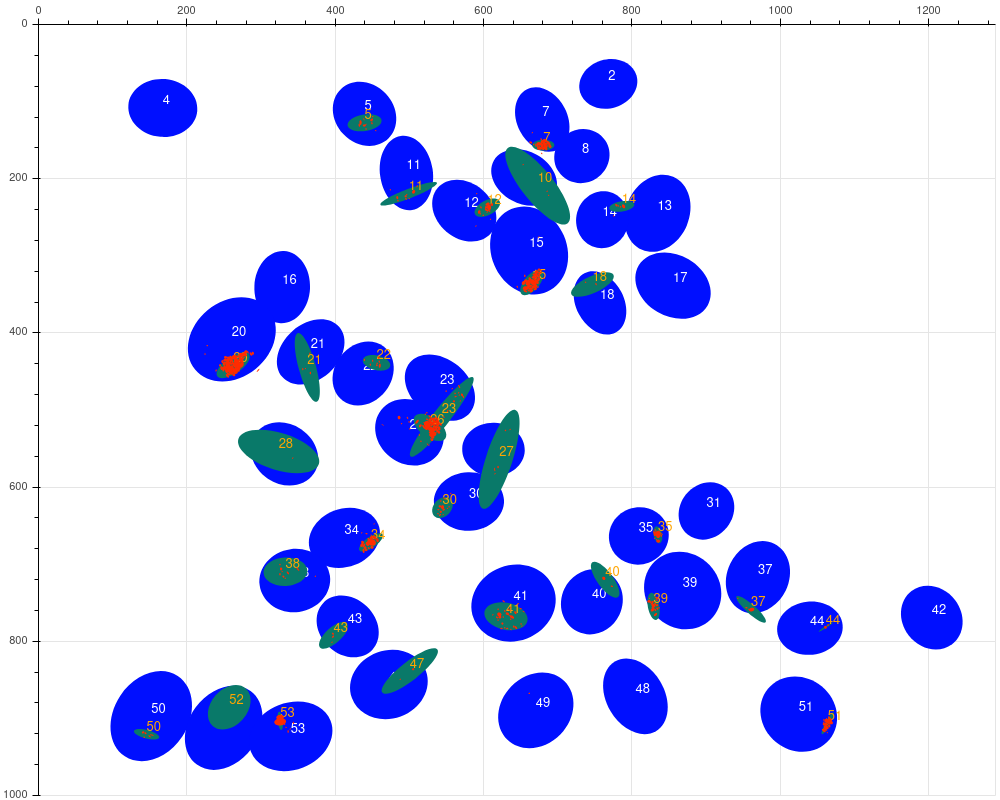
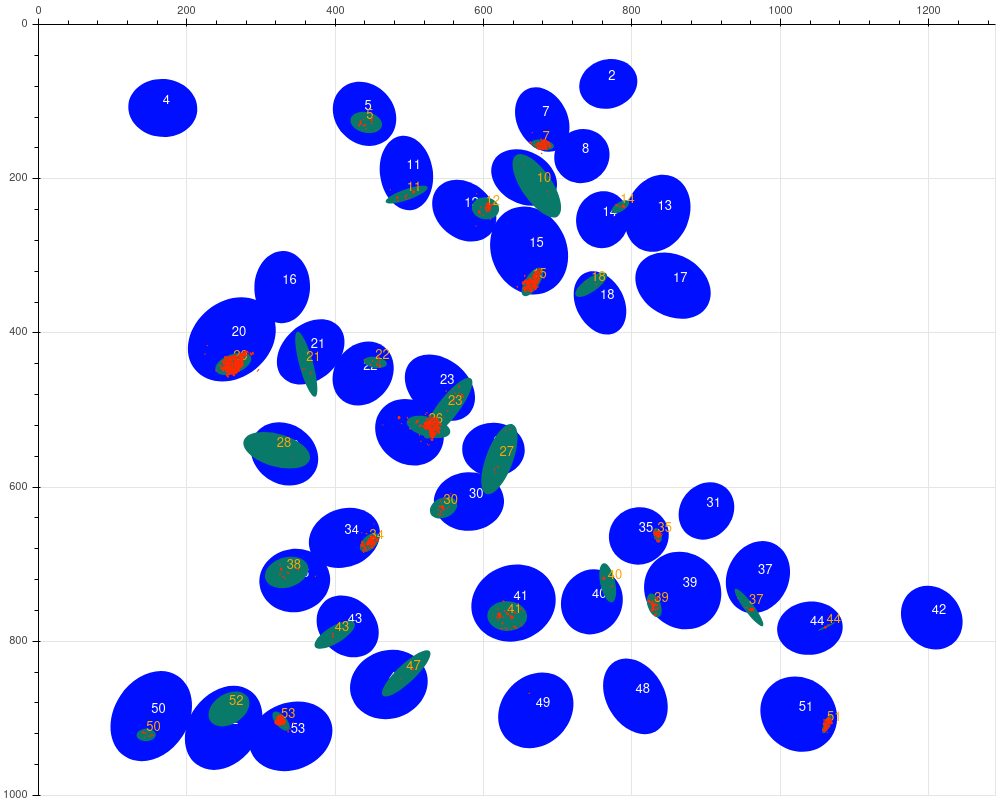
change aweights from integrated_intensity*area to simple integrated_intensity and lower n_std from 2.5 to 2

diff --git a/puncta_counter/src/summarize.py b/puncta_counter/src/summarize.py
@@ -9,10 +9,64 @@ from puncta_counter.utils.plotting import (plot_circle_using_bokeh,
 
 
 # Functions
-# # generate_circle
 # # generate_ellipse
-# # plot_nuclei_circles_puncta
+# # generate_circle
 # # plot_nuclei_ellipses_puncta
+# # plot_nuclei_circles_puncta
+
+
+def generate_ellipse(
+        puncta,
+        algo='confidence_ellipse',
+        n_std=2,  # algo='confidence_ellipse'
+        tolerance=0.05  # algo='min_vol_ellipse'
+    ):
+    """Generates an ellipse, which comes with the following dimensions:
+
+    ["center_x",
+     "center_y",
+     "minor_axis_length",
+     "major_axis_length",
+     "orientation"]
+
+    """
+
+    puncta['center'] = puncta[['center_x', 'center_y']].apply(list, axis=1)
+
+    puncta_summary = (
+        puncta
+        .groupby(['image_number', 'object_number'])[['center', "integrated_intensity"]]
+        .agg(list)
+        .reset_index()
+    ).copy()
+
+
+    if algo == 'confidence_ellipse':
+        puncta_summary[
+            ["center_x", "center_y", "major_axis_length", "minor_axis_length", "orientation"]
+        ] = pd.DataFrame(
+            puncta_summary[["center", 'integrated_intensity']]
+            .apply(lambda x: confidence_ellipse(
+                np.transpose(np.array(x['center'])),
+                aweights=x["integrated_intensity"], n_std=n_std,
+            ), axis=1)
+            .to_list()
+        )
+
+    elif algo == 'min_vol_ellipse':
+        puncta_summary[
+            ["center_x", "center_y", "major_axis_length", "minor_axis_length", "orientation"]
+        ] = pd.DataFrame(
+            puncta_summary["center"]
+            .apply(lambda x: np.transpose(np.array(x)))
+            .apply(lambda x: min_vol_ellipse(x, tolerance=tolerance))
+            .to_list()
+        )
+
+    else:
+        raise ValueError("Choose one: ['min_vol_ellipse', 'confidence_ellipse']")
+    
+    return puncta_summary
 
 
 def generate_circle(puncta):
@@ -48,107 +102,6 @@ def generate_circle(puncta):
     return puncta_summary
 
 
-def generate_ellipse(puncta, algo='confidence_ellipse'):
-    """Generates an ellipse, which comes with the following dimensions:
-    ["center_x",
-     "center_y",
-     "minor_axis_length",
-     "major_axis_length",
-     "orientation"]
-    In the future, I may change this to matplotlib instead of Bokeh, as Bokeh is very resource heavy
-    """
-
-    puncta['center'] = puncta[['center_x', 'center_y']].apply(list, axis=1)
-    puncta['total_intensity'] = puncta["integrated_intensity"] * puncta["area"]
-
-    puncta_summary = (
-        puncta
-        .groupby(['image_number', 'object_number'])[['center', "total_intensity"]]
-        .agg(list)
-        .reset_index()
-    ).copy()
-
-
-    if algo == 'confidence_ellipse':
-        puncta_summary[
-            ["center_x", "center_y", "major_axis_length", "minor_axis_length", "orientation"]
-        ] = pd.DataFrame(
-            puncta_summary[["center", 'total_intensity']]
-            .apply(lambda x: confidence_ellipse(
-                np.transpose(np.array(x['center'])),
-                aweights=x['total_intensity'], n_std=2.5,  # algo='confidence_ellipse'
-                tolerance=0.05,  # algo='min_vol_ellipse'
-            ), axis=1)
-            .to_list()
-        )
-
-    elif algo == 'min_vol_ellipse':
-        puncta_summary[
-            ["center_x", "center_y", "major_axis_length", "minor_axis_length", "orientation"]
-        ] = pd.DataFrame(
-            puncta_summary["center"]
-            .apply(lambda x: np.transpose(np.array(x)))
-            .apply(lambda x: min_vol_ellipse(x, tolerance=0.05))
-            .to_list()
-        )
-
-    else:
-        raise ValueError("Choose one: ['min_vol_ellipse', 'confidence_ellipse']")
-    
-    return puncta_summary
-
-
-def plot_nuclei_circles_puncta(nuclei, circles, puncta, title=None):
-    """Build plot
-    """
-
-    # nuclei
-    nuclei_data = nuclei[["object_number", "center_x", "center_y", "major_axis_length", "minor_axis_length", "angle"]]
-    plot = plot_ellipse_using_bokeh(
-        nuclei_data,
-        nuclei_data,
-        x='center_x',
-        y='center_y',
-        height="major_axis_length",
-        width="minor_axis_length",
-        angle='angle',
-        text="object_number",
-        title=title,
-        fill_color='#000fff',  # blue
-    )
-
-    # circle
-    circles_data = circles[["nuclei_object_number", "center_x_mean", "center_y_mean", "effective_radius_puncta"]]
-    plot = plot_circle_using_bokeh(
-        circles_data,
-        circles_data,
-        x='center_x_mean',
-        y='center_y_mean',
-        size="effective_radius_puncta",
-        text="nuclei_object_number",
-        text_color='orange',
-        fill_color='#097969',  # green
-        line_alpha=0,
-        plot=plot
-    )
-
-    # puncta
-    puncta_data = puncta[["object_number", "center_x", "center_y", "major_axis_length", "minor_axis_length", "angle"]]
-    plot = plot_ellipse_using_bokeh(
-        puncta_data,
-        x='center_x',
-        y='center_y',
-        height="major_axis_length",
-        width="minor_axis_length",
-        angle='angle',
-        fill_color='#ff2b00',  # red
-        line_alpha=0,
-        plot=plot
-    )
-
-    return plot
-
-
 def plot_nuclei_ellipses_puncta(nuclei, ellipses, puncta, title=None):
     """Build plot
     """
@@ -179,6 +132,57 @@ def plot_nuclei_ellipses_puncta(nuclei, ellipses, puncta, title=None):
         width="minor_axis_length",
         angle='angle',
         text="object_number",
+        text_color='orange',
+        fill_color='#097969',  # green
+        line_alpha=0,
+        plot=plot
+    )
+
+    # puncta
+    puncta_data = puncta[["object_number", "center_x", "center_y", "major_axis_length", "minor_axis_length", "angle"]]
+    plot = plot_ellipse_using_bokeh(
+        puncta_data,
+        x='center_x',
+        y='center_y',
+        height="major_axis_length",
+        width="minor_axis_length",
+        angle='angle',
+        fill_color='#ff2b00',  # red
+        line_alpha=0,
+        plot=plot
+    )
+
+    return plot
+
+
+def plot_nuclei_circles_puncta(nuclei, circles, puncta, title=None):
+    """Build plot
+    """
+
+    # nuclei
+    nuclei_data = nuclei[["object_number", "center_x", "center_y", "major_axis_length", "minor_axis_length", "angle"]]
+    plot = plot_ellipse_using_bokeh(
+        nuclei_data,
+        nuclei_data,
+        x='center_x',
+        y='center_y',
+        height="major_axis_length",
+        width="minor_axis_length",
+        angle='angle',
+        text="object_number",
+        title=title,
+        fill_color='#000fff',  # blue
+    )
+
+    # circle
+    circles_data = circles[["nuclei_object_number", "center_x_mean", "center_y_mean", "effective_radius_puncta"]]
+    plot = plot_circle_using_bokeh(
+        circles_data,
+        circles_data,
+        x='center_x_mean',
+        y='center_y_mean',
+        size="effective_radius_puncta",
+        text="nuclei_object_number",
         text_color='orange',
         fill_color='#097969',  # green
         line_alpha=0,

diff --git a/puncta_counter/describe_puncta.py b/puncta_counter/describe_puncta.py
@@ -43,8 +43,8 @@ def parse_args(args=None):
 
     parser.add_argument("-a", "--algos", dest="algos", nargs='+',
     	                default=['confidence_ellipse',
-    	                		 'min_vol_ellipse',  # bugs
-    	                		 'circle',  # deprecate
+    	                		 # 'min_vol_ellipse',  # bugs
+    	                		 # 'circle',  # deprecate
     	                		 ],
                         action="store", required=False, help="limit scope for testing")
 
